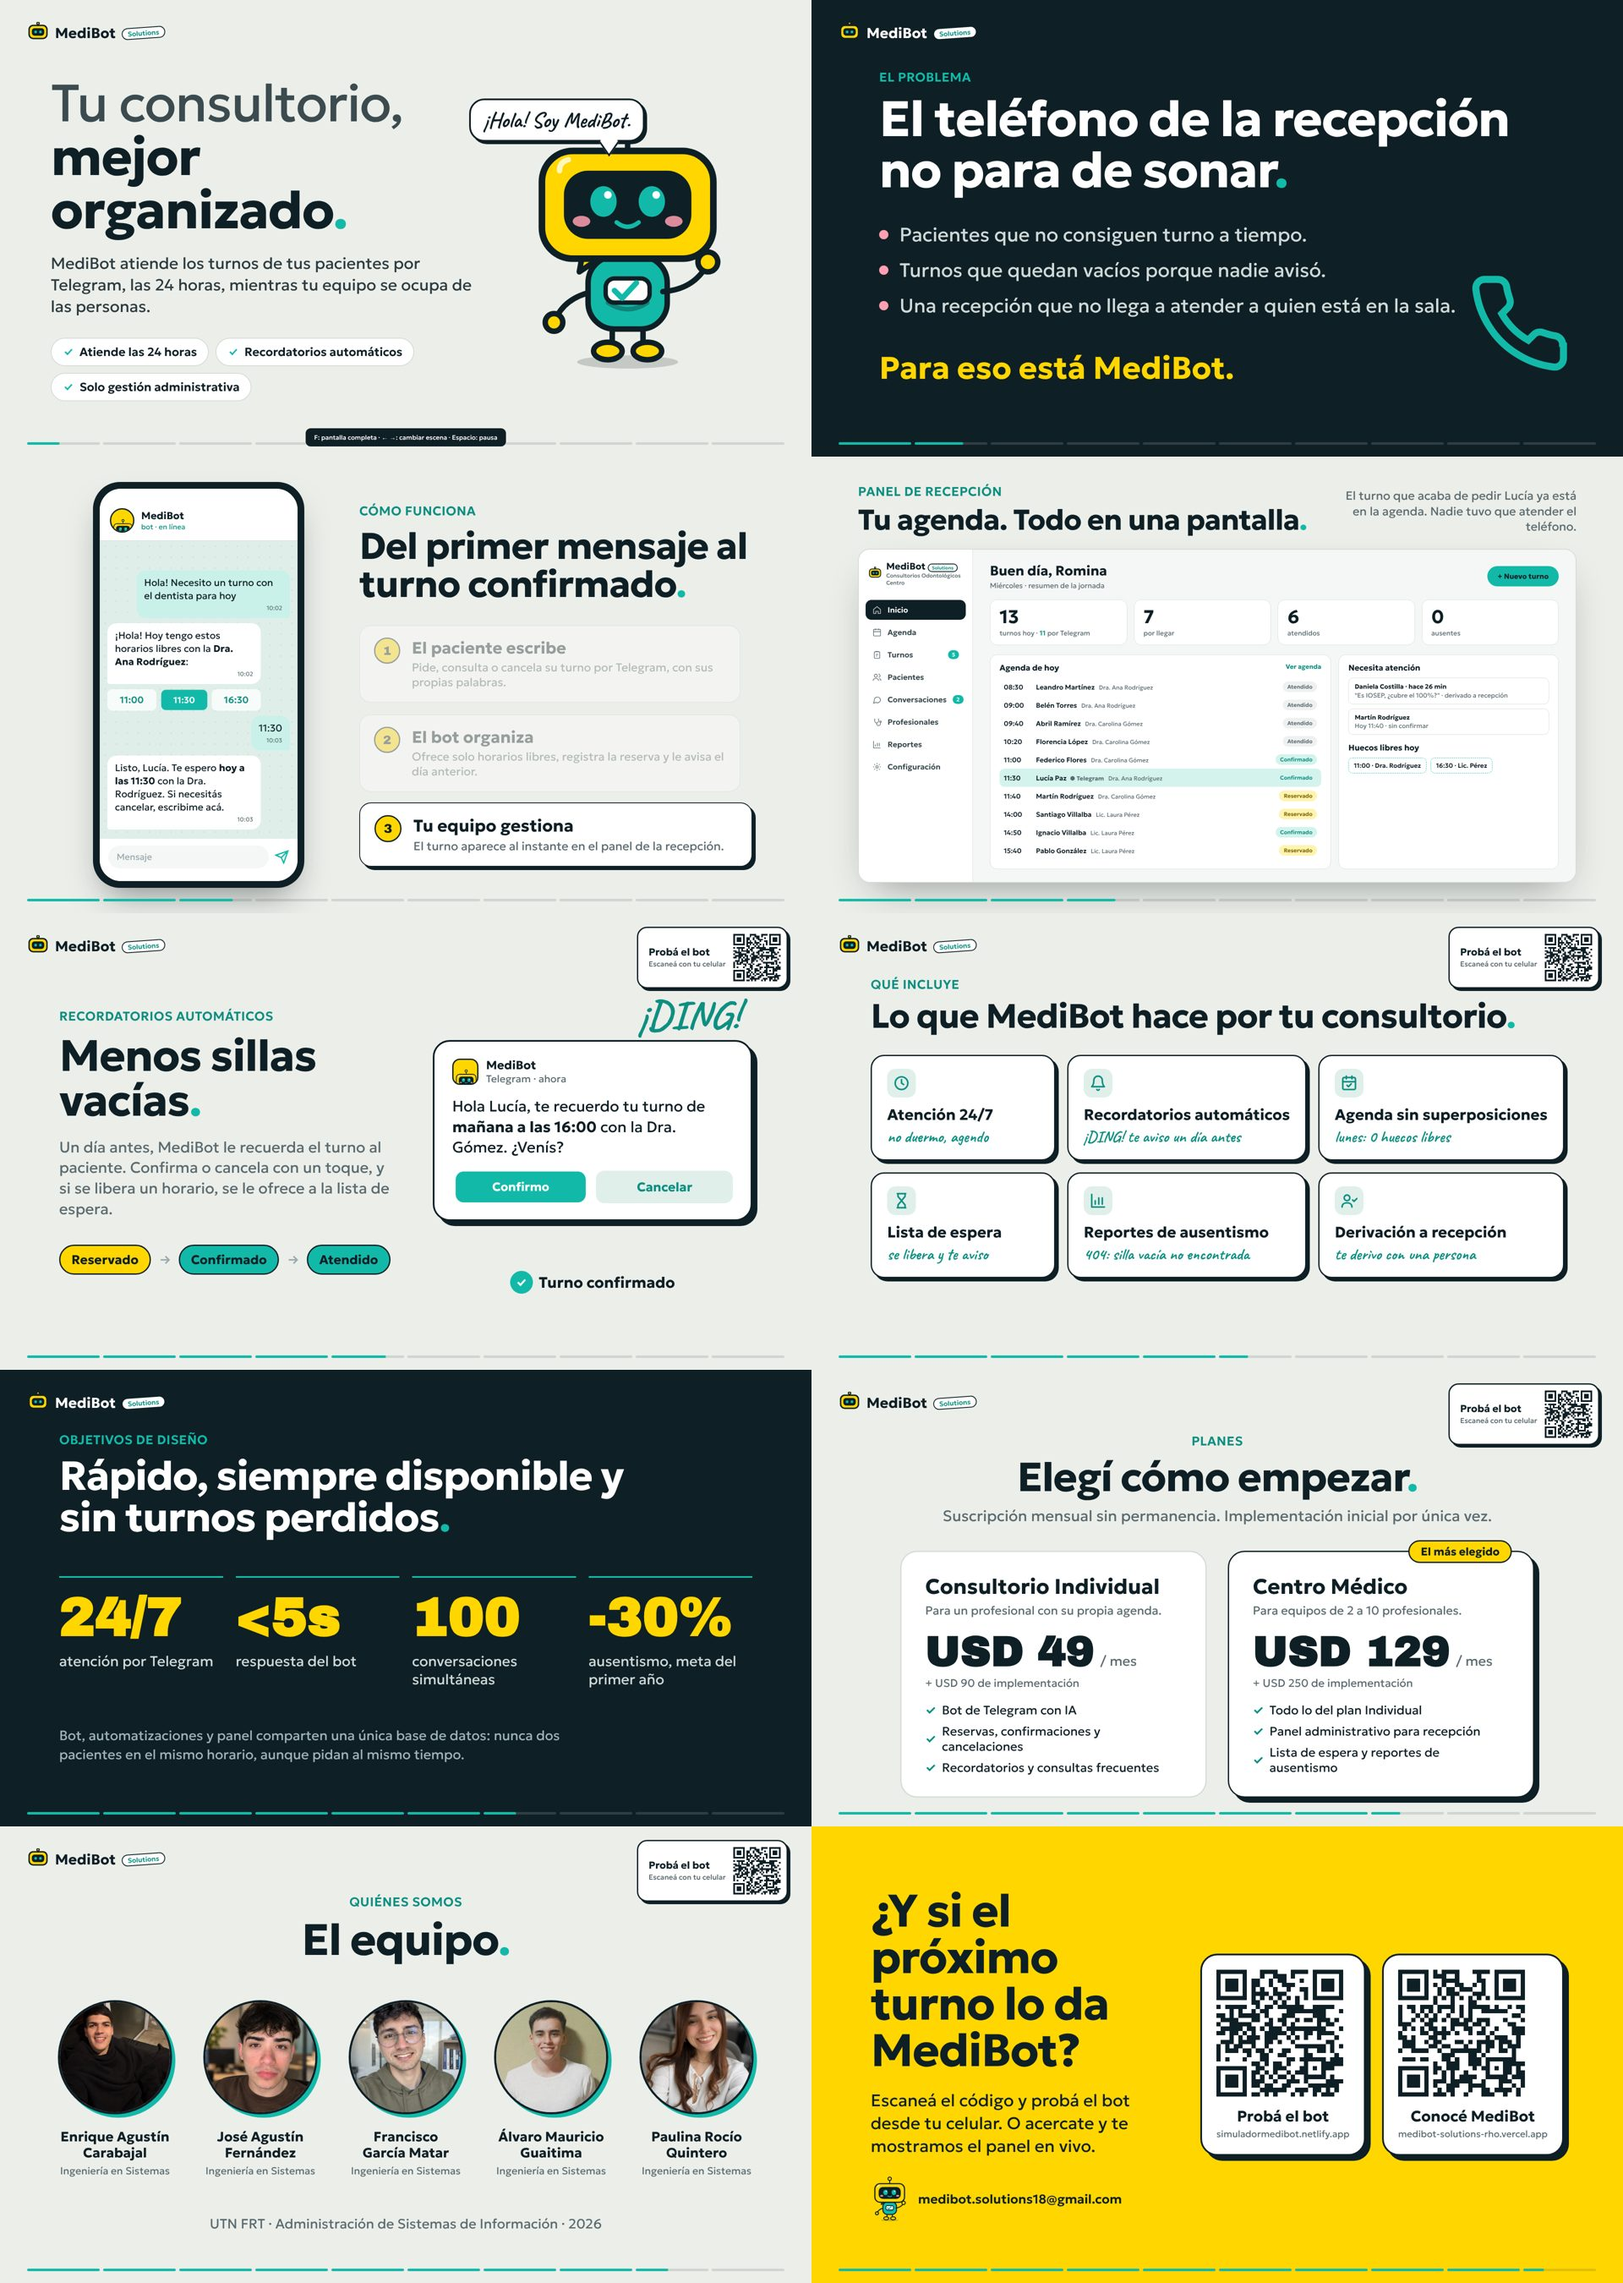
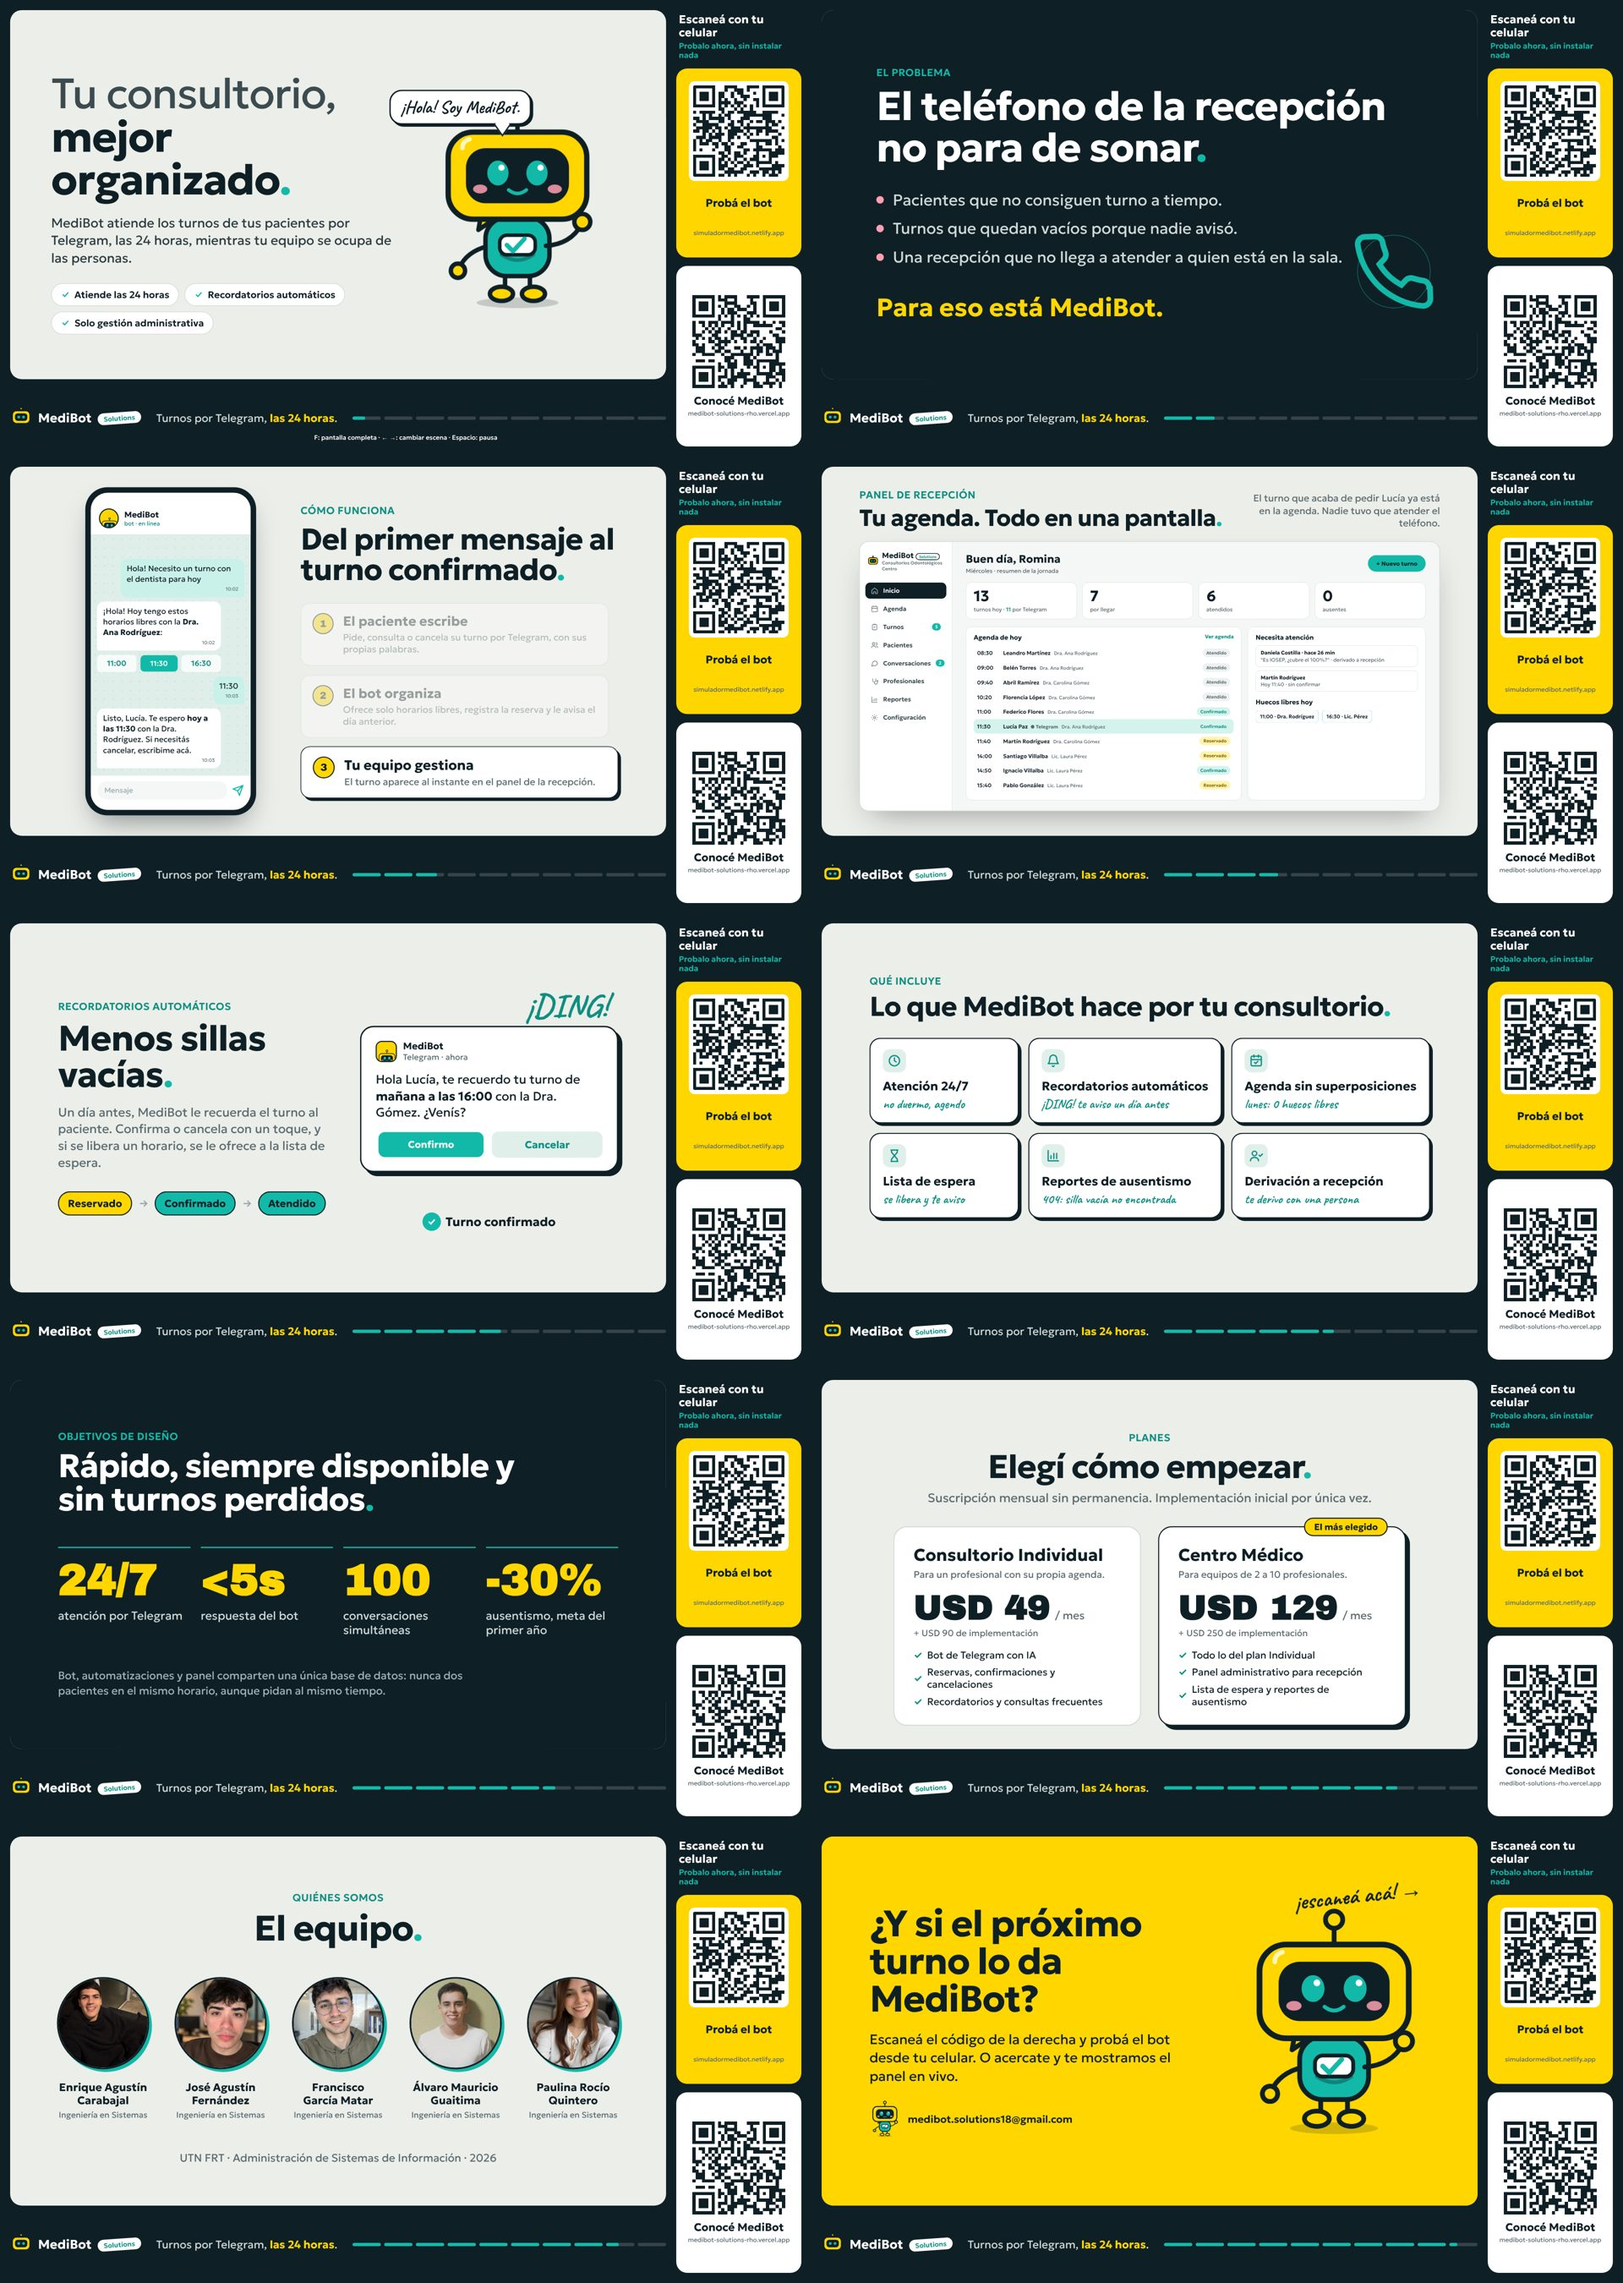
Mostrar los QR siempre visibles en una columna fija
Claude-Session: https://claude.ai/code/session_01UGi7Uh844uszh8UREBufwL

diff --git a/loop/index.html b/loop/index.html
@@ -20,11 +20,26 @@
 }
 *{box-sizing:border-box;margin:0;padding:0}
 html,body{height:100%;overflow:hidden}
-body{background:var(--cream);color:var(--ink);font-family:Geologica,system-ui,sans-serif;cursor:none}
+body{background:var(--ink);color:var(--ink);font-family:Geologica,system-ui,sans-serif;cursor:none}
 body.cursor{cursor:default}
 
 /* Escenario fijo 1920x1080 escalado a la pantalla */
-#stage{position:absolute;left:50%;top:50%;width:1920px;height:1080px;transform-origin:center;overflow:hidden;background:var(--cream)}
+#stage{position:absolute;left:50%;top:50%;width:1920px;height:1080px;transform-origin:center;overflow:hidden;background:var(--ink)}
+#frame{position:absolute;left:24px;top:24px;width:1920px;height:1080px;transform:scale(.8083);transform-origin:0 0;overflow:hidden;border-radius:34px;background:var(--cream)}
+#side{position:absolute;left:1600px;top:24px;width:296px;bottom:24px;display:flex;flex-direction:column;gap:20px}
+#side .head{color:#fff;font-size:27px;font-weight:700;line-height:1.15;padding:6px 6px 0}
+#side .head span{display:block;color:var(--teal);font-size:19px;font-weight:600;margin-top:6px}
+.sqr{flex:1;background:#fff;border-radius:26px;padding:20px;display:flex;flex-direction:column;align-items:center;justify-content:center;text-align:center}
+.sqr img{width:220px;height:220px;display:block}
+.sqr b{font-size:26px;margin-top:14px;display:block}
+.sqr small{font-size:15px;color:var(--muted);margin-top:4px;display:block}
+.sqr.main{background:var(--yellow)}
+.sqr.main img{background:#fff;padding:10px;border-radius:14px;width:236px;height:236px}
+#band{position:absolute;left:24px;top:921px;width:1552px;bottom:24px;display:flex;align-items:center;gap:36px;color:#fff}
+#band .logo{font-size:30px;flex:none}
+#band .logo .tag{background:#fff;color:var(--teal-d);border-color:#fff}
+#band .tl{font-size:26px;color:#cfdad8;flex:none}
+#band .tl b{color:var(--yellow)}
 .scene{position:absolute;inset:0;opacity:0;visibility:hidden;transition:opacity .7s var(--e),visibility 0s .7s}
 .scene.on,.scene.leaving{visibility:visible}
 .scene.on{opacity:1;transition:opacity .7s var(--e)}
@@ -50,7 +65,7 @@ h1,h2{font-weight:700;letter-spacing:-.02em;line-height:1.02}
 .logo{display:flex;align-items:center;gap:14px;font-weight:700;font-size:34px}
 .logo .tag{font-size:16px;font-weight:600;color:var(--teal-d);border:2.5px solid var(--ink);border-radius:999px;padding:2px 12px;transform:rotate(-4deg);background:#fff}
 .logo svg{width:52px;height:52px}
-#brand{position:absolute;left:64px;top:52px;z-index:5;transition:opacity .6s}
+#brand{display:none}
 
 /* Robot */
 .bot{overflow:visible}
@@ -66,18 +81,11 @@ h1,h2{font-weight:700;letter-spacing:-.02em;line-height:1.02}
 @keyframes blink{0%,92%,100%{transform:scaleY(1)}95%{transform:scaleY(.1)}}
 
 /* Barra de progreso */
-#progress{position:absolute;left:64px;right:64px;bottom:28px;display:flex;gap:8px;z-index:6}
-#progress i{flex:1;height:6px;border-radius:9px;background:rgba(15,31,38,.12);overflow:hidden;position:relative}
+#progress{flex:1;display:flex;gap:8px}
+#progress i{flex:1;height:8px;border-radius:9px;background:rgba(255,255,255,.16);overflow:hidden;position:relative}
 #progress i b{position:absolute;inset:0;width:0;background:var(--teal);border-radius:9px}
 #progress i.done b{width:100%}
-body.is-dark #progress i{background:rgba(255,255,255,.14)}
 
-/* QR fijo en esquina */
-#cornerqr{position:absolute;right:56px;top:32px;z-index:6;display:flex;align-items:center;gap:18px;background:#fff;border:3px solid var(--ink);border-radius:24px;padding:14px 14px 14px 24px;box-shadow:6px 6px 0 var(--ink);transition:opacity .6s,transform .6s var(--e)}
-#cornerqr img{width:112px;height:112px;display:block}
-#cornerqr .t{font-size:24px;font-weight:700;line-height:1.15}
-#cornerqr .t small{display:block;font-size:17px;font-weight:500;color:var(--muted);margin-top:4px}
-#cornerqr.hide{opacity:0;transform:translateY(-30px)}
 
 /* ---------- 1. Intro ---------- */
 .s-intro{display:grid;grid-template-columns:1.25fr .75fr;align-items:center;padding:90px 120px 40px}
@@ -274,7 +282,11 @@ body.is-dark #progress i{background:rgba(255,255,255,.14)}
 .s-cta{background:var(--yellow);display:grid;grid-template-columns:1fr auto;align-items:center;padding:0 140px;gap:80px}
 .s-cta h2{font-size:108px}
 .s-cta p{font-size:40px;margin-top:36px;line-height:1.35;max-width:950px}
-.qrs{display:flex;gap:40px}
+.cta-bot{position:relative;width:560px;height:672px}
+.cta-bot .bot{width:100%;height:100%}
+.cta-bot .arrow{position:absolute;left:150px;top:-70px;font-size:64px;transform:rotate(-6deg);white-space:nowrap}
+.on .cta-bot .arrow{animation:nudge 1.2s ease-in-out infinite}
+@keyframes nudge{50%{transform:rotate(-6deg) translateX(18px)}}
 .qr{background:#fff;border:4px solid var(--ink);border-radius:40px;padding:34px;text-align:center;box-shadow:12px 12px 0 var(--ink);--a:pop}
 .qr img{width:300px;height:300px;display:block}
 .qr b{display:block;font-size:36px;margin-top:24px}
@@ -326,6 +338,7 @@ body.paused #paused{display:block}
 </defs></svg>
 
 <div id="stage">
+ <div id="frame">
 
   <div id="brand" class="logo"><svg><use href="#logo"/></svg>MediBot <span class="tag">Solutions</span></div>
 
@@ -504,17 +517,25 @@ body.paused #paused{display:block}
   <section class="scene s-cta" data-id="cta" data-dur="14000" data-qr="0">
     <div>
       <h2 class="in">¿Y si el próximo turno lo da MediBot?</h2>
-      <p class="in" style="--d:.4s">Escaneá el código y probá el bot desde tu celular. O acercate y te mostramos el panel en vivo.</p>
+      <p class="in" style="--d:.4s">Escaneá el código de la derecha y probá el bot desde tu celular. O acercate y te mostramos el panel en vivo.</p>
       <div class="mini-bot in" style="--d:1.2s"><svg class="bot" viewBox="0 0 200 240"><use href="#bot"/></svg>medibot.solutions18@gmail.com</div>
     </div>
-    <div class="qrs">
-      <div class="qr in" style="--d:.7s"><img src="assets/qr-demo.svg" alt=""><b>Probá el bot</b><span>simuladormedibot.netlify.app</span></div>
-      <div class="qr in" style="--d:.9s"><img src="assets/qr-web.svg" alt=""><b>Conocé MediBot</b><span>medibot-solutions-rho.vercel.app</span></div>
-    </div>
+    <div class="cta-bot in" style="--a:pop;--d:.6s"><svg class="bot" viewBox="0 0 200 240"><use href="#bot"/></svg><div class="arrow hand">¡escaneá acá! →</div></div>
   </section>
 
-  <div id="cornerqr" class="hide"><div class="t">Probá el bot<small>Escaneá con tu celular</small></div><img src="assets/qr-demo.svg" alt=""></div>
-  <div id="progress"></div>
+ </div>
+
+  <aside id="side">
+    <div class="head">Escaneá con tu celular<span>Probalo ahora, sin instalar nada</span></div>
+    <div class="sqr main"><img src="assets/qr-demo.svg" alt=""><b>Probá el bot</b><small>simuladormedibot.netlify.app</small></div>
+    <div class="sqr"><img src="assets/qr-web.svg" alt=""><b>Conocé MediBot</b><small>medibot-solutions-rho.vercel.app</small></div>
+  </aside>
+
+  <div id="band">
+    <div class="logo"><svg><use href="#logo"/></svg>MediBot <span class="tag">Solutions</span></div>
+    <div class="tl">Turnos por Telegram, <b>las 24 horas</b>.</div>
+    <div id="progress"></div>
+  </div>
 </div>
 
 <div id="hint">F: pantalla completa · ← →: cambiar escena · Espacio: pausa</div>
@@ -525,7 +546,6 @@ body.paused #paused{display:block}
   const stage = document.getElementById('stage');
   const scenes = [...document.querySelectorAll('.scene')];
   const progress = document.getElementById('progress');
-  const corner = document.getElementById('cornerqr');
   const brand = document.getElementById('brand');
   let idx = -1, timers = [], paused = false, sceneStart = 0, raf;
 
@@ -650,7 +670,6 @@ body.paused #paused{display:block}
     if (prev && prev !== s) { prev.classList.remove('on'); prev.classList.add('leaving'); later(750, () => prev.classList.remove('leaving')); }
     s.classList.remove('on', 'leaving'); void s.offsetWidth; s.classList.add('on');
     bars.forEach((b, k) => { b.classList.toggle('done', k < idx); b.firstChild.style.width = k < idx ? '100%' : '0'; });
-    corner.classList.toggle('hide', s.dataset.qr !== '1');
     brand.style.opacity = ['panel', 'cta', 'chat'].includes(s.dataset.id) ? 0 : 1;
     brand.style.color = s.dataset.dark ? '#fff' : '';
     document.body.classList.toggle('is-dark', !!s.dataset.dark);

diff --git a/loop/README.md b/loop/README.md
@@ -3,6 +3,8 @@
 Presentación animada que se repite sola (unos 2 minutos por vuelta), pensada para un monitor en el stand de la muestra.
 ![Vista previa de las escenas](preview.jpg)
 
+Los dos códigos QR (simulador y landing) quedan **siempre visibles** en la columna derecha, en todas las escenas.
+
 Funciona **sin internet**: las fuentes, las fotos y los códigos QR están en la carpeta `assets/`.
 
 ## Cómo usarla en la notebook
@@ -34,7 +36,7 @@ Funciona **sin internet**: las fuentes, las fotos y los códigos QR están en la
 7. Objetivos de diseño
 8. Planes y precios
 9. El equipo
-10. Cierre con QR al simulador y a la landing
+10. Cierre: "¿Y si el próximo turno lo da MediBot?"
 
 Los datos del panel y de los chats son ficticios, igual que en la demo de la landing.
 
